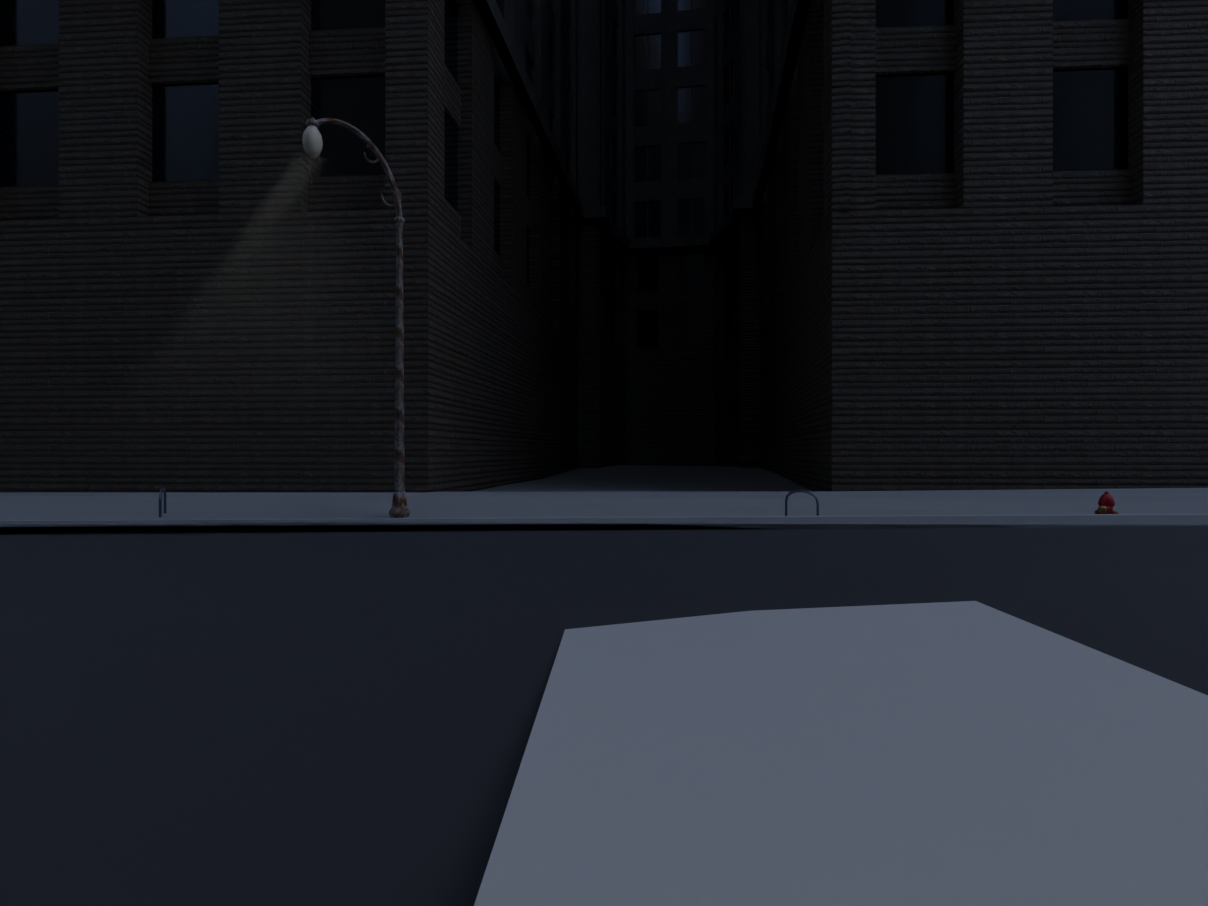
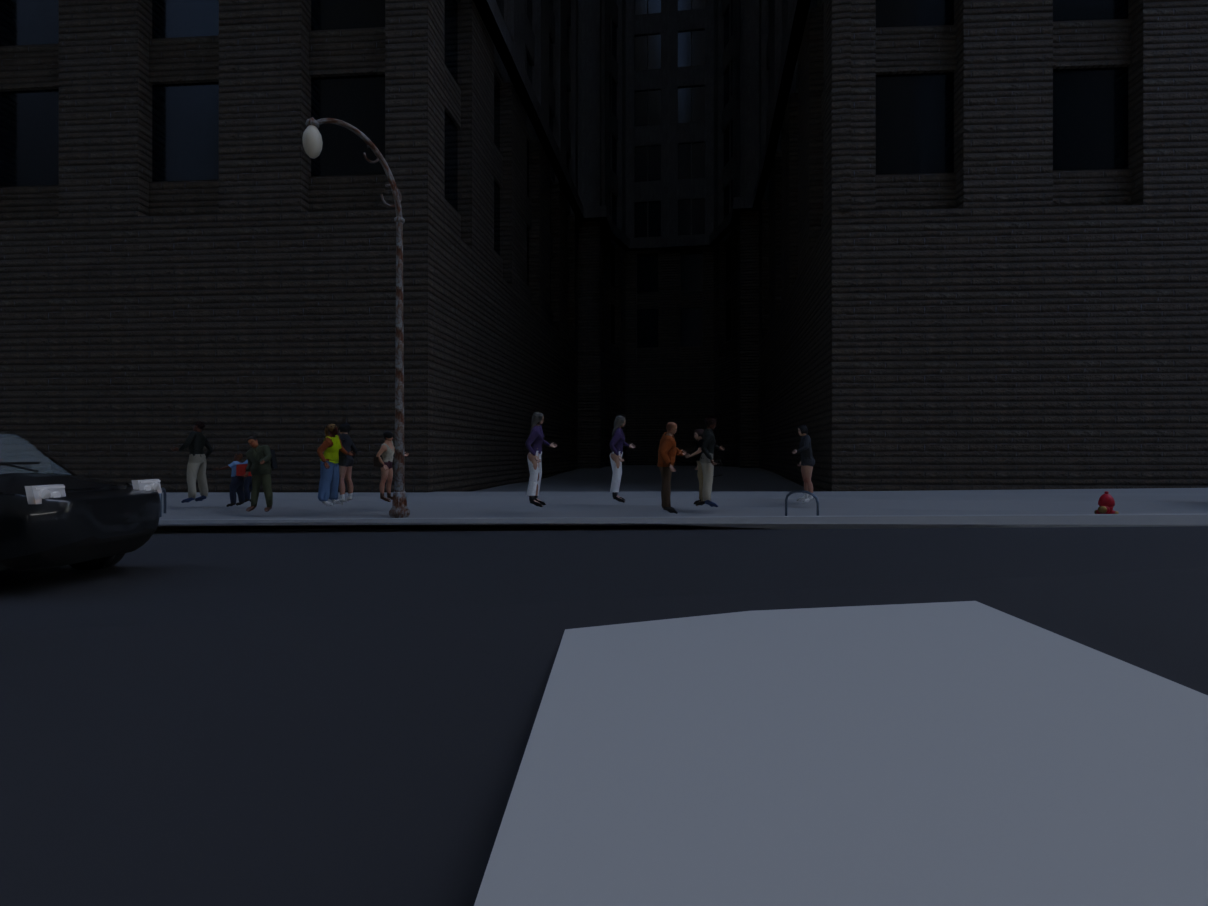
verify: the Equitable Building sheet - the darkest frame in the set, and I18 again
Mean luminance 0.133 against the photograph's 0.598: the widest exposure gap
measured anywhere in the set, a factor of four and a half.  Broadway here is a
slot between towers, the render lights it physically and the photograph was
metered for it.  Nothing clips and nothing is broken; the two images answer
different questions and here that produces a frame a reader can barely read.

I18 as well: the subject is 78.1 m away, the lens is already at the 18 mm floor,
and a level axis cannot contain a 164 m building from there.  The sheet shows
the base of one tower among several.

The pedestrian cull fired once, which is the camera-aware version working on a
camera that moved after placement.

The assessment says which part of this is the world's fault: none of it.  Eleven
landmark models, 240 people and 50 vehicles are correctly placed in a correctly
built Lower Manhattan street.  What fails is the camera rule and the exposure
convention - both recorded, both with named fixes, neither applied in this pass.

Claude-Session: https://claude.ai/code/session_012rCzdfEp56Z5bDvSJLVsiQ

diff --git a/docs/verification/comparison/landmark_equitable_building/assessment.md b/docs/verification/comparison/landmark_equitable_building/assessment.md
@@ -14,6 +14,28 @@
 
 **Verdict — the camera was pulled off a lamp standard 3 cm from the lens and put on a crosswalk with 41 m of clear view, and the frame is still a black canyon floor with a lamp in it; the H-plan slab the item exists to test is above the top of the frame and in shadow**
 
+## Re-rendered 2026-09-07 — the darkest frame in the set, and I18 again
+
+Two recorded faults meet in this sheet and both are at their extreme here.
+
+**Exposure (I16).** Mean luminance **0.133 against the photograph's 0.598** — the widest gap measured
+anywhere in the set, a factor of four and a half. Broadway at this point is a slot between towers and
+the render lights it physically while the photograph was metered for it. Nothing is clipping and
+nothing is broken; the two images are answering different questions, and here that produces a frame a
+reader can barely read.
+
+**Framing (I18).** The subject stands 78.1 m away and the lens is already at the **18 mm floor**, so
+the frame cannot contain a 164 m building from that distance with a level axis. What the sheet shows
+is the base of one tower among several.
+
+The pedestrian cull fired once — `pedestrian_over_the_observer: 1` — which is the camera-aware cull
+doing its job on a camera that moved after placement.
+
+**Taken together this sheet is close to unusable, and it is worth saying which part is the world's
+fault: none of it.** 11 landmark models, 240 people and 50 vehicles are correctly placed in a
+correctly built Lower Manhattan street. What fails is the camera rule and the exposure convention,
+both recorded, both with named fixes, neither applied in this pass.
+
 ## What matches
 
 * The in-the-lens test fired and is stated: the recorded viewpoint stood 0.03 m from prop_lamp_bishops_crook_0, and the camera was moved 12 m onto the nearest real crosswalk polygon.
